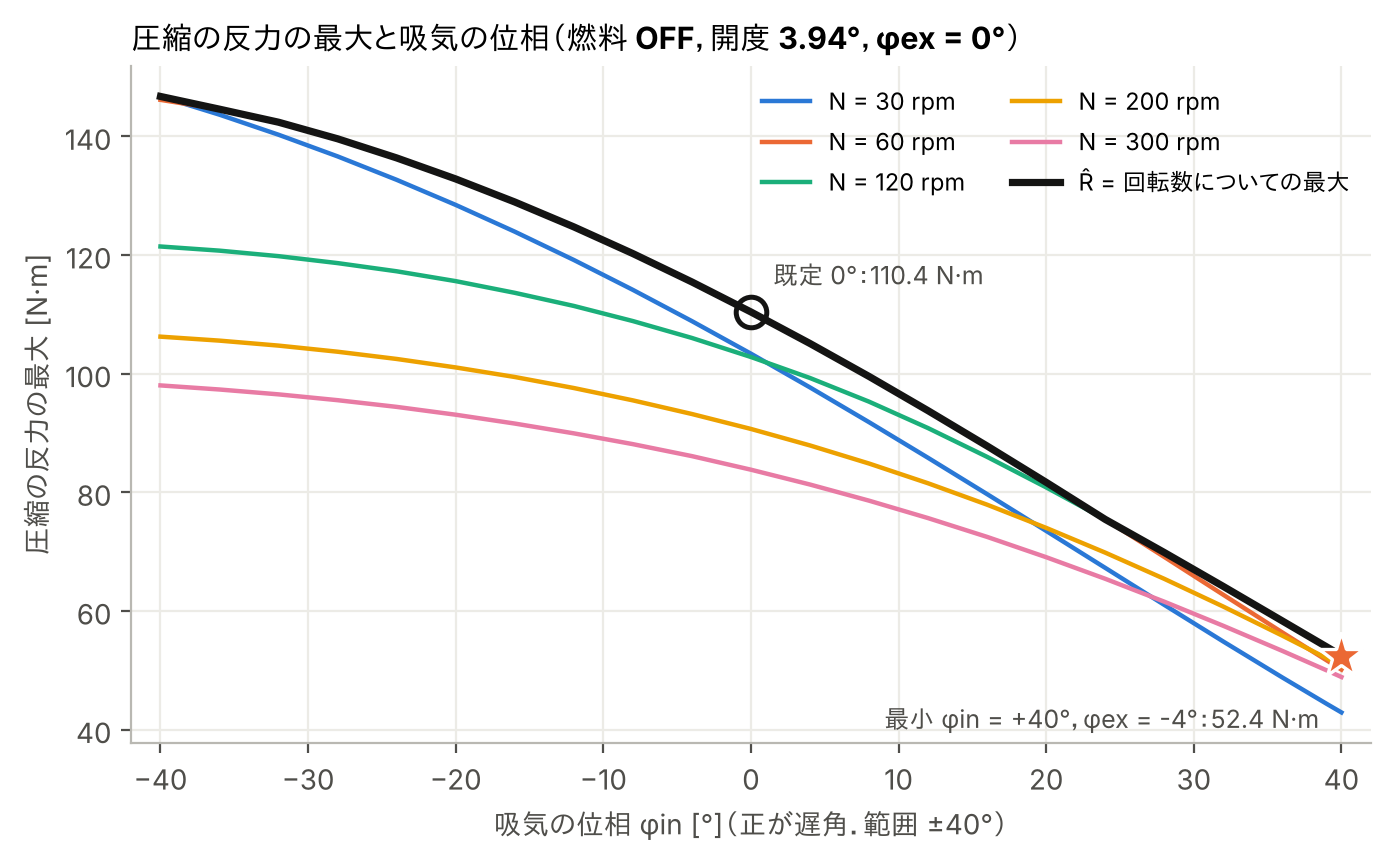
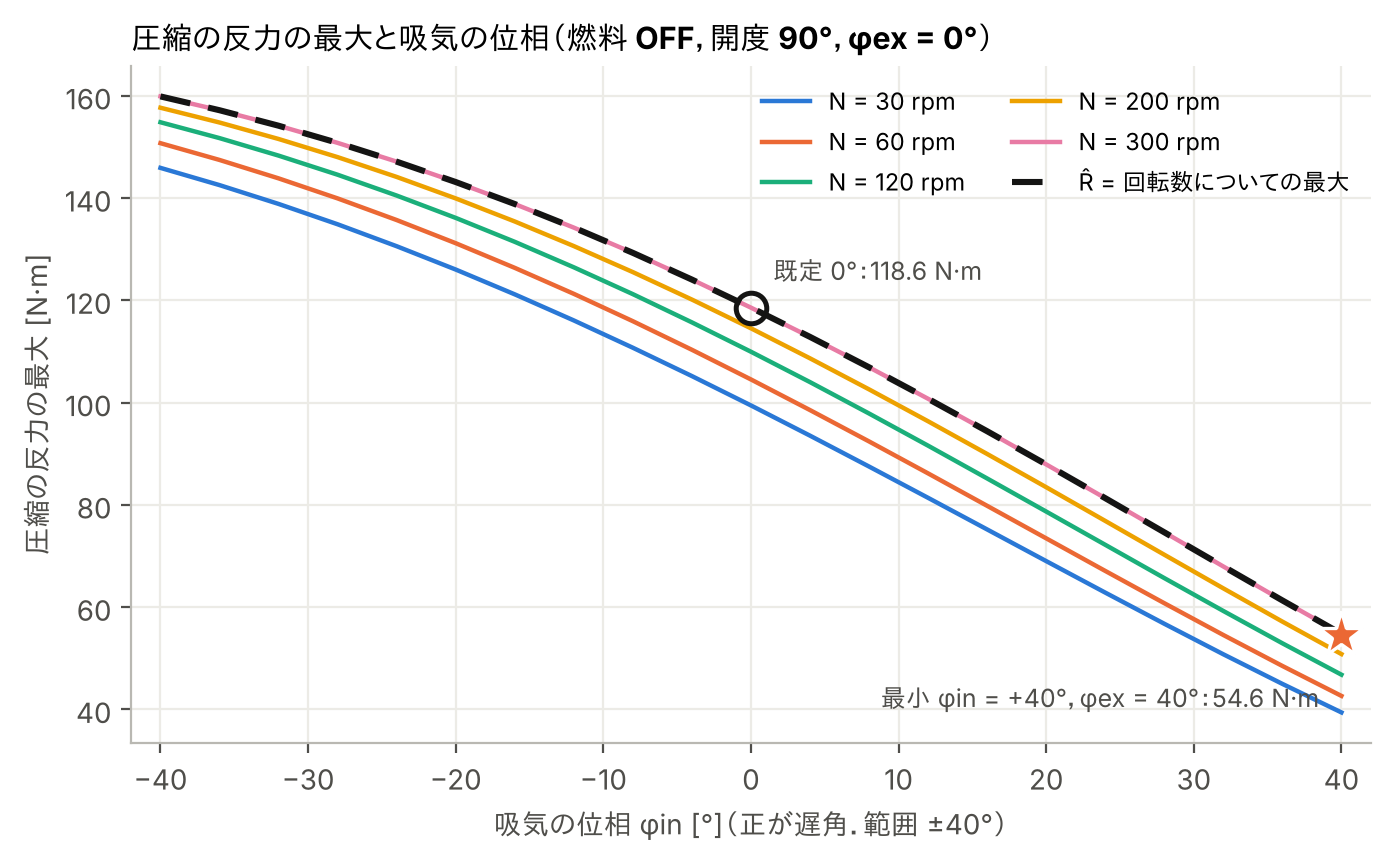
始動の実験：クランキング中は全開とし，初期位相を全開での圧縮の反力の最小で決め直す（φin +40°，φex +40°，R̂ 54.6 N·m，T_stall 79 N·m）．負荷 0，3，6 N·m のすべてで完爆して整定する
Claude-Session: https://claude.ai/code/session_01HgjMgSas4PgcDpoYwcWe5Y

diff --git a/experiments/startup/start_final.js b/experiments/startup/start_final.js
@@ -1,0 +1,16 @@
+#!/usr/bin/env node
+/* 採用した始動の条件：クランキング中は全開，初期位相は vvt_rmin.json の最小点（全開で計算したもの）．
+   T_stall = 1.3 (R̂ + 6)，ω_nl を決め直し，負荷 0，3，6 N·m の始動を計算する（VVT は固定）．結果は start_final.json */
+'use strict';
+const path=require('path'),fs=require('fs');
+const X=require('./startup.js'),{S,K,run}=X;
+const V=JSON.parse(fs.readFileSync(path.resolve(__dirname,'vvt_rmin.json'),'utf8'));
+if(V.alpha!==90)throw new Error('vvt_rmin.json が全開の計算ではない（alpha = '+V.alpha+'）');
+const {phin,phex,Rhat}=V.best;
+S.acrank=90;K.Tst=1.3*(Rhat+S.TLMAX);S.wnl=null;X.tuneWnl({it:30,T:4,phin,phex});
+const f=(v,d=2)=>v!=null&&v===v?v.toFixed(d):'—';
+console.log(`初期位相 φin ${phin}°，φex ${phex}°，R̂ ${Rhat.toFixed(2)} N·m，T_stall ${K.Tst.toFixed(1)} N·m，ω_nl ${K.wnl.toFixed(2)} rad/s（${(K.wnl*30/Math.PI).toFixed(0)} rpm）`);
+const out={phin,phex,Rhat,Tst:K.Tst,wnl:K.wnl,runs:[]};
+for(const Tl of [0,3,6]){const r=run({Tl,phin,phex,T:12,dtr:.01});out.runs.push({Tl,tInj:r.tInj,tFire:r.tFire,nc:r.cFire-r.cInj,tSettle:r.tSettle,Est:r.Est,Nmax:r.Nmax,Nmin:r.Nmin,stall:r.stall,tr:r.tr.map(q=>[q[0],q[1],q[3]]),cyc:r.cyc});
+ console.log(`負荷 ${Tl} N·m：噴射 ${f(r.tInj)} s，完爆 ${f(r.tFire)} s（${r.cFire-r.cInj===r.cFire-r.cInj?r.cFire-r.cInj:'—'} サイクル），N_k 最大 ${f(r.Nmax,0)} 最小 ${r.Nmin<1e8?f(r.Nmin,0):'—'} rpm，整定 ${r.stall?'エンスト':f(r.tSettle)} s，E_st ${f(r.Est,0)} J，IMEP ${r.cyc.slice(0,5).map(q=>q.imep).join('/')} kPa`)}
+fs.writeFileSync(path.resolve(__dirname,'start_final.json'),JSON.stringify(out));

diff --git a/experiments/startup/plot_final.py b/experiments/startup/plot_final.py
@@ -1,0 +1,31 @@
+#!/usr/bin/env python3
+"""採用した始動の経過（start_final.json → fig/fig7_final.png）：回転数と開度."""
+import json, os, sys
+HERE = os.path.dirname(os.path.abspath(__file__))
+sys.path.insert(0, HERE)
+import figstyle  # noqa: F401（共通の見た目）
+import matplotlib.pyplot as plt
+F = json.load(open(os.path.join(HERE, "start_final.json"), encoding="utf-8"))
+COL = ["#2a78d6", "#eb6834", "#1baf7a"]
+fig, axs = plt.subplots(2, 1, figsize=(10, 6.4), sharex=True, gridspec_kw={"height_ratios": [2, 1]})
+ax = axs[0]
+ax.axhspan(775, 825, color="#2a78d6", alpha=0.10, lw=0)
+for r, c in zip(F["runs"], COL):
+    ax.plot([q[0] for q in r["tr"]], [q[1] for q in r["tr"]], color=c, lw=0.9,
+            label=f"負荷 {r['Tl']} N·m：完爆 {r['tFire']:.2f} s（{r['nc']} サイクル），整定 {r['tSettle']:.2f} s")
+    ax.axvline(r["tFire"], color=c, lw=1, ls=(0, (3, 3)))
+ax.set_ylim(0, 1000)
+ax.set_ylabel("瞬時の回転数 N [rpm]")
+ax.legend(fontsize=8.5, loc="lower right")
+ax.set_title(f"採用した始動：クランキング中は全開，初期位相 φin = +{F['phin']}°，φex = +{F['phex']}°，T_stall = {F['Tst']:.0f} N·m（VVT は固定）")
+ax = axs[1]
+for r, c in zip(F["runs"], COL):
+    ax.plot([q[0] for q in r["tr"]], [q[2] for q in r["tr"]], color=c, lw=1.4, label=f"負荷 {r['Tl']} N·m")
+ax.set_yscale("log")
+ax.set_yticks([2, 5, 10, 20, 50, 90], ["2", "5", "10", "20", "50", "90"])
+ax.set_ylabel("開度 α [°]")
+ax.set_xlabel("時間 t [s]")
+ax.set_xlim(0, 12)
+p = os.path.join(HERE, "fig", "fig7_final.png")
+fig.savefig(p)
+print(p)

diff --git a/experiments/startup/plot_rmin.py b/experiments/startup/plot_rmin.py
@@ -15,7 +15,7 @@ cols = ["#2a78d6", "#eb6834", "#1baf7a", "#eda100", "#e87ba4"]
 fig, ax = plt.subplots(figsize=(8, 4.4))
 for j, N in enumerate(V["NS"]):
     ax.plot([g["phin"] for g in row], [g["byN"][j] for g in row], color=cols[j], lw=1.6, label=f"N = {N} rpm")
-ax.plot([g["phin"] for g in row], [g["Rhat"] for g in row], color="#141413", lw=2.6, label="R̂ = 回転数についての最大")
+ax.plot([g["phin"] for g in row], [g["Rhat"] for g in row], color="#141413", lw=2.2, ls=(0, (5, 3)), label="R̂ = 回転数についての最大")
 ax.plot(0, [g["Rhat"] for g in row if g["phin"] == 0][0], "o", ms=11, mfc="none", mec="#141413", mew=1.8)
 ax.plot(B["phin"], B["Rhat"], "*", ms=17, mfc="#eb6834", mec="#ffffff", mew=1.2)
 ax.annotate(f"既定 0°：{[g['Rhat'] for g in row if g['phin'] == 0][0]:.1f} N·m", (0, [g["Rhat"] for g in row if g["phin"] == 0][0]), xytext=(8, 10), textcoords="offset points", fontsize=9, color="#4f4e4a")

diff --git a/experiments/startup/README.md b/experiments/startup/README.md
@@ -9,6 +9,7 @@
 | `step.js` | 開度のステップに対する，サイクルごとの軸トルクの応答 |
 | `design.js` | サイクルに同期した PI のゲインを，サイクルごとの線形モデルで決める |
 | `vvt0.js` | VVT の初期位置の探索（6 節）．`node experiments/startup/vvt0.js [格子の幅=10] [詰める幅=2]`（約 8 分）→ `vvt0.json` |
+| `wot.js`，`plot_wot.py`，`start_final.js`，`plot_final.py` | クランキング中の開度の比較と，採用した始動（8 節）→ `wot.json`，`start_final.json`，`fig/fig6_wot.png`，`fig/fig7_final.png` |
 | `vvt_rmin.js`，`plot_rmin.py` | 初期位相を圧縮の反力の最小で決める（7 節．約 6 分）→ `vvt_rmin.json`，`fig/fig5_rmin.png` |
 | `report_data.js`，`plot_report.py`，`figstyle.py` | 図のデータ（`report_data.json`）と図（`fig/*.png`．matplotlib） |
 | `result.json`，`plant.json`（$V_{\text{in}} = 1.5\ \text{L}$），`plant_v03.json`（$0.3\ \text{L}$） | 結果 |
@@ -195,13 +196,54 @@ ECU のゲインは $I_{\text{tot}} = 0.17$ で決めたままである．軽い
 
   負荷 6 N·m では燃焼している（IMEP 194 kPa）が，回転数が 382 rpm で止まり，完爆（$\bar N > 500$）と判定されず，スターターが回し続ける．完爆の前は開度が始動開度に固定で，遅い IVC では空気が足りない．**完爆の前後に位相を進める過渡が要る**（次の段階）．
 
+## 8. クランキング中はスロットル全開（採用）
+
+利用者の指摘：クランキング中に絞ると，吸気管の負圧によるポンプ損失が抵抗になるので，全開でよい．
+
+### 8.1 計測の誤りの訂正
+
+`vvt0.js`，`vvt_rmin.js` の反力の計測（回転数を固定した計算）は，完爆前の開度を決める `alc` を渡しておらず，既定の 6° で測っていた（`alm` は完爆後にしか使われない）．6 節と 7 節の $R_{\max}$，$\hat R$ は開度 6° の値である．始動の計算（`startup.js`）は `alc` を渡しており，影響しない．スクリプトを直した（`alc` も渡す）．
+
+### 8.2 開度の比較（初期位相 φin = +40°，φex = −4°．`wot.js`，図 6）
+
+| 開度 | 抵抗の平均 [N·m]（30〜300 rpm） | PMEP [kPa] | 吸気管圧 [kPa] | $\hat R$ [N·m]（最大になる回転数） |
+| :--- | :--- | :--- | :--- | :--- |
+| 3.94° | 5.1〜5.4 | −21〜−38 | 99 → 84 | 47.7（60 rpm） |
+| 10° | 4.5〜5.6 | −7〜−31 | 101 → 96 | 60.0（300 rpm） |
+| 20° | 4.5〜5.3 | −6〜−19 | 101 | 57.7（300 rpm） |
+| 90°（全開） | 4.4〜5.0 | −6〜−13 | 101.3 | 54.8（300 rpm） |
+
+* 全開でポンプ損失は約 1/3 になる．一方，閉じ込める空気が増えるので，回転数が上がったところの圧縮の山は高くなる（$\hat R$ が 47.7 → 54.8 N·m）．低い回転数（30〜60 rpm）では，全開のほうが山が低い（39〜43 対 47〜48 N·m）．
+* 10° の山が全開より高い理由は調べていない．
+* 始動（$T_{\text{stall}} = 1.3(\hat R + 6)$，VVT 固定）：3.94° では負荷 6 N·m で完爆しない（回転数が 300〜460 rpm で止まる）．10°，20°，90° では，3 つの負荷のすべてで完爆して整定する．
+
+### 8.3 全開での初期位相（`S='{"acrank":90}' node vvt_rmin.js`，図 5）
+
+7 節と同じ問題を全開で解いた：**φin = +40°，φex = +40°，$\hat R$ = 54.61 N·m**（既定の位相では 118.6 N·m）．
+
+* 全開では $\hat R$ が回転数とともに増え，どの位相でも 300 rpm で最大になる．
+* φin について単調に減り，範囲の上限 +40° で最小（7 節と同じ）．φex の影響は 0.30 N·m で，+40° はこの差で選ばれた値．
+
+### 8.4 採用した始動（`start_final.js`，図 7）
+
+クランキング中は全開，初期位相 (+40°, +40°)，$T_{\text{stall}} = 1.3(54.61 + 6) = 78.8\ \text{N·m}$，$\omega_{nl} = 36.23\ \text{rad/s}$（346 rpm）．VVT は固定．完爆の時点で開度を $\alpha_{\text{ff}} = 3.94^\circ$ に戻し，サイクルに同期した PI に渡す．
+
+| 負荷 [N·m] | 噴射開始 [s] | 完爆 [s]（サイクル） | 完爆後の $N_k$ 最大／最小 [rpm] | 整定 [s] | スターターの仕事 [J] |
+| ---: | ---: | :--- | :--- | ---: | ---: |
+| 0 | 0.32 | 0.87（2） | 927 ／ 525 | 5.92 | 180 |
+| 3 | 0.35 | 1.08（3） | 803 ／ 562 | 2.01 | 221 |
+| 6 | 0.38 | 1.45（4） | 835 ／ 515 | 8.27 | 270 |
+
+* 3 つの負荷のすべてで完爆して整定する．負荷 6 N·m では完爆まで 4 サイクル，整定まで 8.3 s かかる．
+* 無負荷では 927 rpm まで吹け上がる．
+
 ## 4. 第 1 版からの変更
 
 第 1 版（コミット `始動の数値実験（クランキング → 直噴 → 完爆 → アイドル）`）は，$V_{\text{in}} = 1.5\ \text{L}$，既定の ECU（始動開度 $6^\circ$），慣性を $0.17$，$0.07$，$0.03$ に振った．完爆までは成り立ったが，9 通りのうち 5 通りがエンストし，残りも整定しなかった．その原因は，空気の経路の遅れ（2.3）と，始動開度が大きいことによる吹け上がりと，単気筒の 800 rpm には軽すぎる慣性（2.2）だった．
 
 ## 5. 未決
 
-* 最終の目的は，始動からアイドルまでの最適な VVT の過渡的な変化を見ること（利用者の方針）．初期位置は 7 節で圧縮の反力の最小として決めた（φin = +40°，φex = −4°）．バルブタイミングを時間（またはサイクル）の関数として与えられるようにし，何を最適にするか（整定の時間，吹け上がり，燃料の量，未燃の燃料など）を決める必要がある．
+* 最終の目的は，始動からアイドルまでの最適な VVT の過渡的な変化を見ること（利用者の方針）．初期位置は圧縮の反力の最小として決めた（8 節．全開のクランキングで φin = +40°，φex = +40°）．バルブタイミングを時間（またはサイクル）の関数として与えられるようにし，何を最適にするか（整定の時間，吹け上がり，燃料の量，未燃の燃料など）を決める必要がある．
 * 冷間始動（壁温が低い，燃料の壁への付着，増量）は扱っていない．
 * 吸気ランナの長さ（既定 0.45 m）は，単気筒の実機より長いと思われる（**推定**）．
 * 点火時期による速い回転数の制御（実機のアイドル制御は空気と点火の両方を使う）は入れていない．
